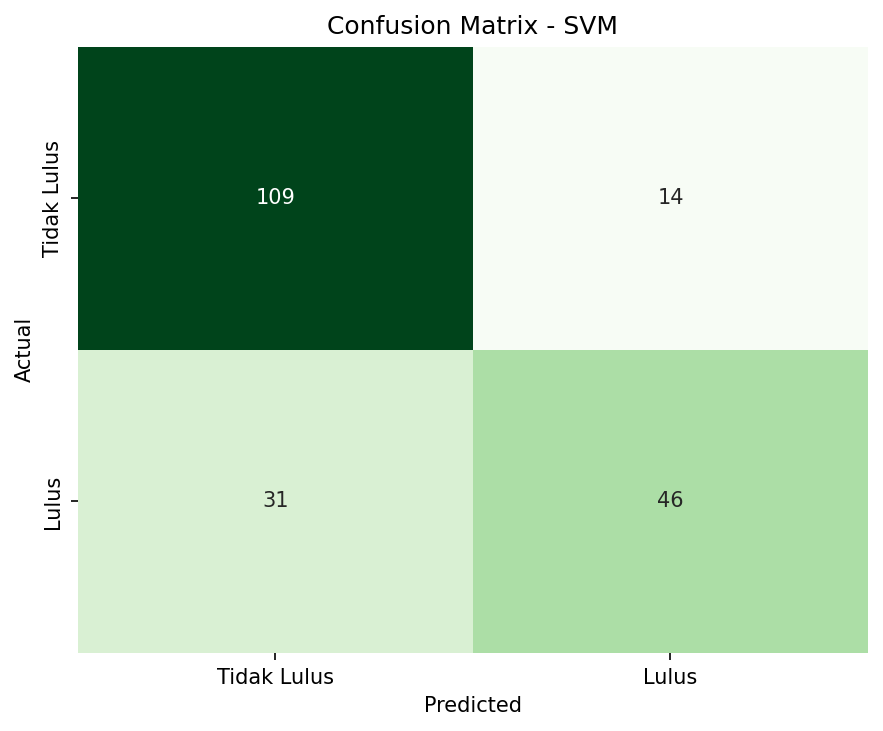
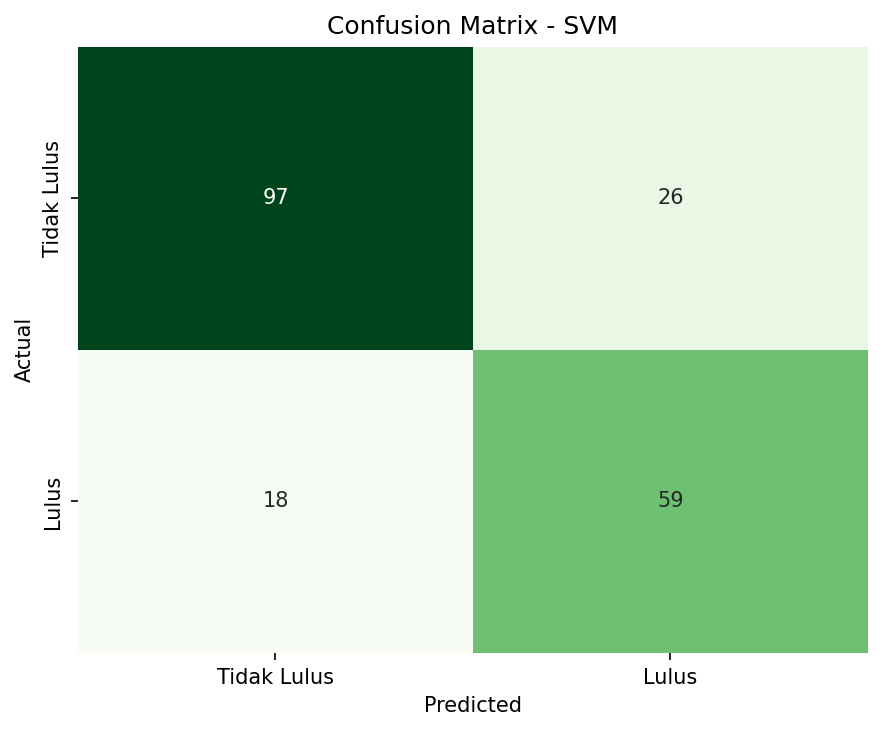
fixing training data

diff --git a/ml_api/app/ml/train.py b/ml_api/app/ml/train.py
@@ -5,7 +5,7 @@ import numpy as np
 import pandas as pd
 import matplotlib.pyplot as plt
 import seaborn as sns
-from sklearn.model_selection import train_test_split, StratifiedKFold, cross_validate
+from sklearn.model_selection import train_test_split, StratifiedKFold, cross_validate, GridSearchCV
 from sklearn.preprocessing import StandardScaler
 from sklearn.svm import SVC
 from sklearn.metrics import (
@@ -32,6 +32,15 @@ FEATURE_COLUMNS = ["jawaban_benar", "tingkat_kesulitan"]
 TARGET_COLUMN = "kelulusan"
 CV_FOLDS = 5
 SCORING = ["accuracy", "precision", "recall", "f1"]
+
+# Grid buat GridSearchCV. Silakan diperluas kalau mau coba kombinasi lain,
+# tapi makin banyak kombinasi makin lama waktu training.
+PARAM_GRID = {
+    "C": [0.1, 1, 10, 100],
+    "gamma": ["scale", "auto", 0.001, 0.01, 0.1],
+    "kernel": ["rbf", "linear"],
+    "class_weight": [None, "balanced"],
+}
 
 
 def load_data():
@@ -67,6 +76,32 @@ def load_data():
     X = df[FEATURE_COLUMNS]
     y = df[TARGET_COLUMN]
     return X, y
+
+
+def tune_hyperparameters(X_scaled, y):
+    """Cari kombinasi hyperparameter SVM terbaik pakai GridSearchCV,
+    dievaluasi dengan StratifiedKFold + F1 score (lebih cocok buat data
+    yang agak imbalance dibanding accuracy doang)."""
+    skf = StratifiedKFold(n_splits=CV_FOLDS, shuffle=True, random_state=RANDOM_SEED)
+
+    base_model = SVC(probability=True, random_state=RANDOM_SEED)
+    grid = GridSearchCV(
+        base_model,
+        PARAM_GRID,
+        cv=skf,
+        scoring="f1",
+        n_jobs=-1,
+        refit=True,
+    )
+    grid.fit(X_scaled, y)
+
+    print("\n" + "=" * 50)
+    print("Hasil GridSearchCV")
+    print("=" * 50)
+    print(f"Best params : {grid.best_params_}")
+    print(f"Best F1 (CV): {grid.best_score_:.4f}\n")
+
+    return grid.best_params_, grid.best_score_
 
 
 def run_cross_validation(name, model, X_scaled, y):
@@ -184,6 +219,7 @@ def write_metrics_json(svm_model, svm_cv, svm_holdout, n_train, n_test, path):
                 "kernel": params["kernel"],
                 "C": params["C"],
                 "gamma": params["gamma"],
+                "class_weight": params["class_weight"],
             },
         },
     }
@@ -210,11 +246,21 @@ def main():
     X_test_scaled = scaler.transform(X_test)
     X_full_scaled = scaler.transform(X)  # dipakai khusus untuk cross validation
 
-    svm_model = SVC(kernel="rbf", C=1.0, gamma="scale", probability=True, random_state=RANDOM_SEED)
+    print("Mencari hyperparameter terbaik (GridSearchCV)...")
+    best_params, best_cv_f1 = tune_hyperparameters(X_train_scaled, y_train)
 
-    report_chunks = []
+    svm_model = SVC(
+        probability=True,
+        random_state=RANDOM_SEED,
+        **best_params,
+    )
 
-    print("Menjalankan 5-Fold Cross Validation...")
+    report_chunks = [
+        f"\nHyperparameter terbaik (GridSearchCV, scoring=F1): {best_params}\n"
+        f"Best CV F1 saat tuning: {best_cv_f1:.4f}\n"
+    ]
+
+    print("Menjalankan 5-Fold Cross Validation dengan parameter terbaik...")
     svm_cv, svm_cv_text = run_cross_validation("SVM", svm_model, X_full_scaled, y)
     report_chunks += [svm_cv_text]
 
